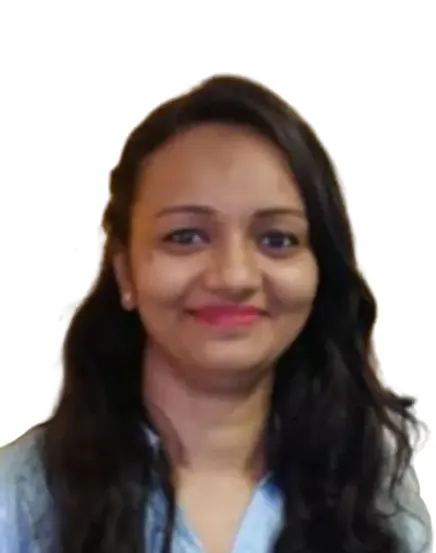
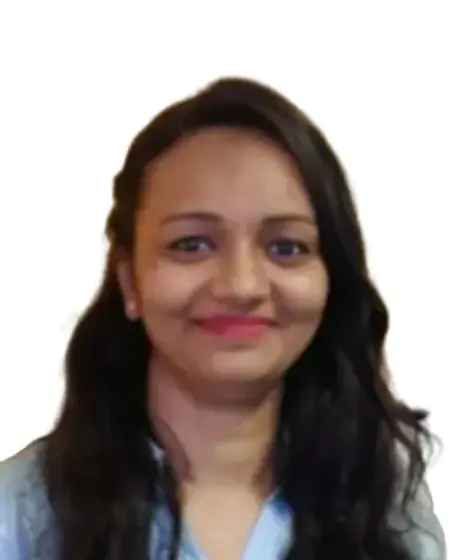
all staff images changes and testimonial designation updates

diff --git a/components/landing/constants.ts b/components/landing/constants.ts
@@ -97,7 +97,7 @@ export const testimonials: Testimonial[] = [
     id: "1",
     quote: "Planfirma's tablet-based platform streamlined training for thousands of agents, enhancing efficiency.",
     author: "Laazarus Dias",
-    position: "Technology Director",
+    position: "Founder Chairman",
     company: "LDEA",
     avatar: "/images/testimonials/laazarus-dias.webp",
     rating: 5
@@ -106,7 +106,7 @@ export const testimonials: Testimonial[] = [
     id: "2",
     quote: "Planfirma efficiently solves business challenges, delivering exceptional results with a tailored approach.",
     author: "Jaya Nagarmat",
-    position: "Operations Manager",
+    position: "Managing Director",
     company: "Investor Shoppe",
     avatar: "/images/testimonials/jaya-nagarmat.webp",
     rating: 5
@@ -115,7 +115,7 @@ export const testimonials: Testimonial[] = [
     id: "3",
     quote: "For almost a decade, Planfirma's agile team and portal have been key to our hiring success.",
     author: "Prasad Hariharan",
-    position: "HR Director",
+    position: "Managing Director",
     company: "Carnival",
     avatar: "/images/testimonials/prasad-hariharan.webp",
     rating: 5

diff --git a/components/AboutUs.tsx b/components/AboutUs.tsx
@@ -67,7 +67,7 @@ const teamMembers = [
   { 
     name: "Sapna Srivastava", 
     position: "Manager Operations", 
-    avatar: "/images/team/sapna-srivastava.jpeg",
+    avatar: "/images/team/sapna-srivastava.webp",
     linkedin: "https://www.linkedin.com/in/sapna-srivastava-a75a5620a/"
   }
 ];
